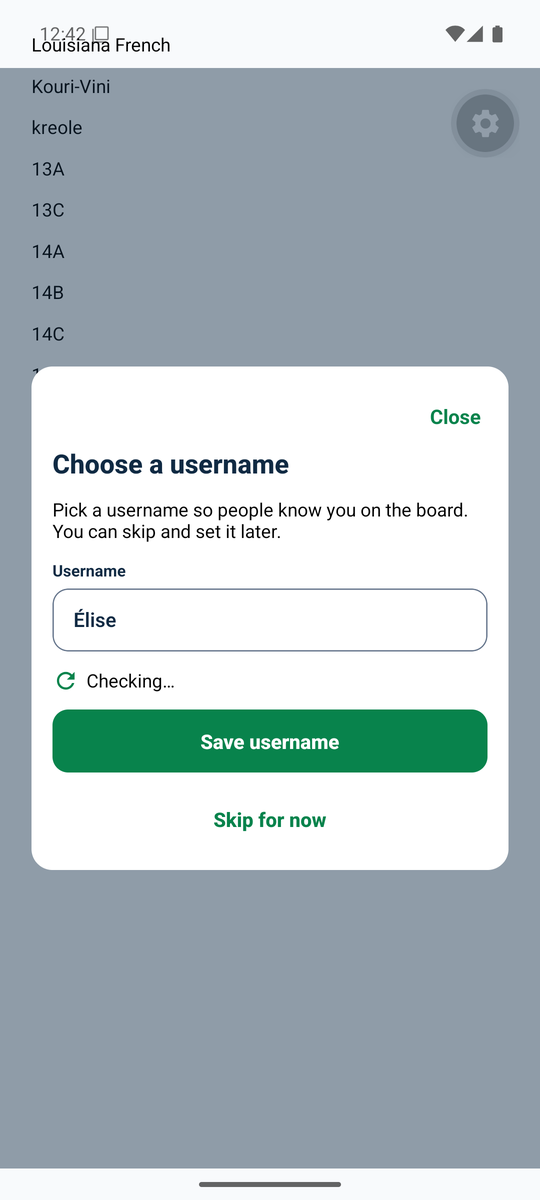
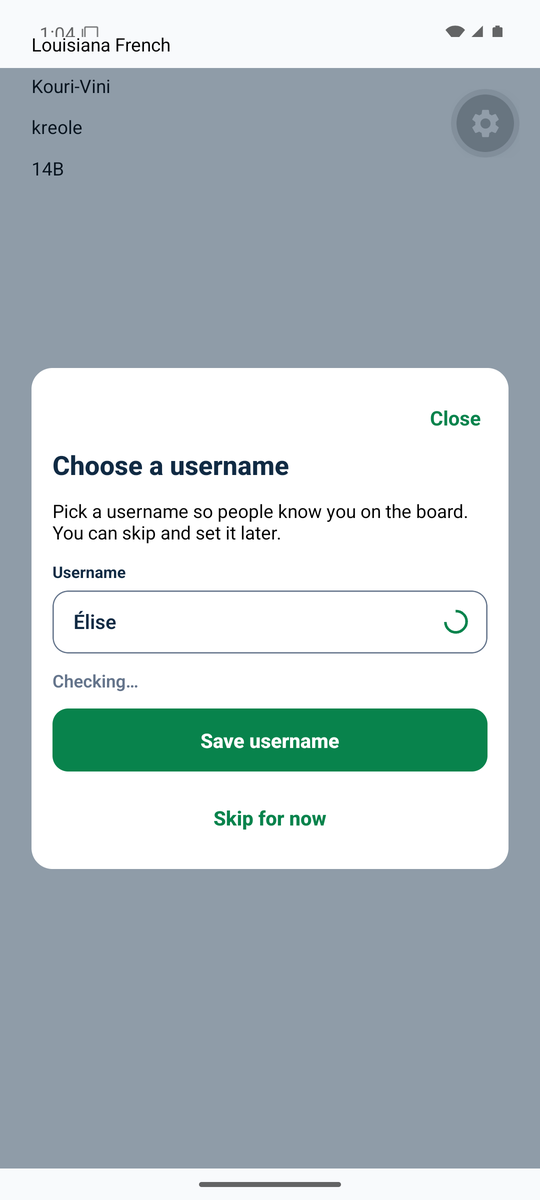
fix(account): put the checking ring inside the username field (#495)
* test(account): require the checking ring inside the username field

The spinner still sits on the Checking line, under the field.

* fix(account): put the checking ring inside the username field

The ring is an 18px accent stroke at the trailing edge. Checking… stays plain text under the field, and that line and the available line announce politely.

* docs(account): retake the checking-ring shots

---------

diff --git a/src/components/account/accountViews.tsx b/src/components/account/accountViews.tsx
@@ -1,5 +1,6 @@
 import { Feather, FontAwesome5 } from '@expo/vector-icons';
-import { ActivityIndicator, Pressable, StyleSheet, Text, View } from 'react-native';
+import { useEffect, useRef } from 'react';
+import { ActivityIndicator, Animated, Easing, Pressable, StyleSheet, Text, View } from 'react-native';
 
 import { usernameSaveBlocked, type AccountEvent, type AccountView } from '../../account/accountMachine';
 import { usernameFormatIssue } from '../../account/usernameFormat';
@@ -177,6 +178,19 @@ export function ForgotView({ view, dispatch, accentColor }: { view: Forgot; disp
   );
 }
 
+function CheckingRing({ color }: { color: string }) {
+  const turn = useRef(new Animated.Value(0)).current;
+  useEffect(() => {
+    const spin = Animated.loop(Animated.timing(turn, {
+      toValue: 1, duration: 900, easing: Easing.linear, useNativeDriver: true
+    }));
+    spin.start();
+    return () => spin.stop();
+  }, [turn]);
+  const rotate = turn.interpolate({ inputRange: [0, 1], outputRange: ['0deg', '360deg'] });
+  return <Animated.View testID="account-username-checking" style={[styles.ring, { borderColor: color, transform: [{ rotate }] }]} />;
+}
+
 function GoogleError() {
   return <View style={styles.error}>
     <Feather accessible={false} color="#B91C1C" name="alert-circle" size={16} />
@@ -201,17 +215,17 @@ export function UsernameView({ view, dispatch, accentColor }: { view: Username; 
         autoCapitalize="none"
         error={message.kind === 'error' ? message.text : undefined}
         testID="account-username"
+        trailing={message.kind === 'checking' ? <CheckingRing color={accentColor} /> : undefined}
       />
       {message.kind === 'checking' ? (
-        <View style={styles.status}>
-          <ActivityIndicator color={accentColor} testID="account-username-checking" />
-          <Text>{message.text}</Text>
+        <View>
+          <Text accessibilityLiveRegion="polite" style={styles.checking}>{message.text}</Text>
         </View>
       ) : null}
       {message.kind === 'available' ? (
         <View style={styles.status}>
           <Feather accessible={false} color={accentColor} name="check" size={16} />
-          <Text style={[styles.available, { color: accentColor }]} testID="account-username-available">{message.text}</Text>
+          <Text accessibilityLiveRegion="polite" style={[styles.available, { color: accentColor }]} testID="account-username-available">{message.text}</Text>
         </View>
       ) : null}
       {message.kind === 'helper' ? <Text>{message.text}</Text> : null}
@@ -259,6 +273,10 @@ const styles = StyleSheet.create({
   locked: { opacity: 0.55 },
   error: { alignItems: 'center', flexDirection: 'row', gap: 6 },
   status: { alignItems: 'center', flexDirection: 'row', gap: 6 },
+  checking: { color: '#64748B', fontSize: 13, fontWeight: '600' },
+  ring: {
+    borderRadius: 9, borderTopColor: 'transparent', borderWidth: 2, height: 18, width: 18
+  },
   available: { flexShrink: 1, fontSize: 13, fontWeight: '700' },
   errorText: { color: '#B91C1C', flexShrink: 1, fontSize: 13, fontWeight: '700' },
   title: { color: '#102A43', fontSize: 20, fontWeight: '800' }

diff --git a/src/components/account/formControls.tsx b/src/components/account/formControls.tsx
@@ -1,4 +1,4 @@
-import { useState } from 'react';
+import { useState, type ReactNode } from 'react';
 import { Feather } from '@expo/vector-icons';
 import {
   ActivityIndicator,
@@ -31,6 +31,7 @@ type FieldProps = {
   autoCapitalize?: TextInputProps['autoCapitalize'];
   keyboardType?: TextInputProps['keyboardType'];
   editable?: boolean;
+  trailing?: ReactNode;
 };
 
 type ButtonProps = {
@@ -89,6 +90,8 @@ const labelStyle: TextStyle = { color: INK, fontSize: 12, fontWeight: '700', mar
 const errorText: TextStyle = { color: ERROR_TEXT, flexShrink: 1, fontSize: 13, fontWeight: '700' };
 const errorRow: ViewStyle = { alignItems: 'flex-start', flexDirection: 'row', gap: 6, marginTop: 6 };
 const title: TextStyle = { flexShrink: 1, fontSize: 15, fontWeight: '800' };
+const fieldWrap: ViewStyle = { justifyContent: 'center' };
+const trailingSlot: ViewStyle = { bottom: 0, justifyContent: 'center', position: 'absolute', top: 0 };
 const frame: ViewStyle = {
   alignItems: 'center',
   borderRadius: 12,
@@ -111,27 +114,33 @@ export function Field({
   secureTextEntry,
   autoCapitalize,
   keyboardType,
-  editable
+  editable,
+  trailing
 }: FieldProps) {
   const { focused, onFocus, onBlur } = useFocused();
+  const inputStyle = fieldStyle(focused, Boolean(error), accentColor);
+  const pad = typeof inputStyle.paddingHorizontal === 'number' ? inputStyle.paddingHorizontal : INSET;
   return (
     <View>
       <Text accessible={false} style={labelStyle}>{label}</Text>
-      <TextInput
-        accessibilityHint={error}
-        accessibilityLabel={label}
-        autoCapitalize={autoCapitalize}
-        editable={editable}
-        keyboardType={keyboardType}
-        onBlur={onBlur}
-        onChangeText={onChangeText}
-        onFocus={onFocus}
-        placeholder={placeholder}
-        secureTextEntry={secureTextEntry}
-        style={fieldStyle(focused, Boolean(error), accentColor)}
-        testID={testID}
-        value={value}
-      />
+      <View style={fieldWrap} testID={testID ? `${testID}-field` : undefined}>
+        <TextInput
+          accessibilityHint={error}
+          accessibilityLabel={label}
+          autoCapitalize={autoCapitalize}
+          editable={editable}
+          keyboardType={keyboardType}
+          onBlur={onBlur}
+          onChangeText={onChangeText}
+          onFocus={onFocus}
+          placeholder={placeholder}
+          secureTextEntry={secureTextEntry}
+          style={trailing ? [inputStyle, { paddingRight: pad + 26 }] : inputStyle}
+          testID={testID}
+          value={value}
+        />
+        {trailing ? <View pointerEvents="none" style={[trailingSlot, { right: pad }]}>{trailing}</View> : null}
+      </View>
       {error ? (
         <View style={errorRow}>
           <Feather

diff --git a/src/components/account/__tests__/AccountModal.test.tsx b/src/components/account/__tests__/AccountModal.test.tsx
@@ -1,6 +1,6 @@
 import { describe, expect, it, jest } from '@jest/globals';
 import { act, useState } from 'react';
-import { fireEvent, render, screen, waitFor } from '@testing-library/react-native';
+import { fireEvent, render, screen, waitFor, within } from '@testing-library/react-native';
 import { StyleSheet } from 'react-native';
 
 import type { AccountConnector } from '../../../account/accountConnector';
@@ -265,6 +265,42 @@ describe('username step view', () => {
     expect(screen.getByTestId('account-username-checking')).toBeOnTheScreen();
     expect(screen.queryByText(HELPER)).toBeNull();
     expect(screen.getByRole('button', { name: 'Save username' }).props.accessibilityState.disabled).toBe(false);
+  });
+
+  it('draws the checking ring inside the field and leaves the helper as plain text', () => {
+    openUsername(username({
+      draft: 'Ada',
+      availability: { status: 'checking', value: 'Ada' }
+    }), jest.fn(), accentFor('cajun'));
+    const field = screen.getByTestId('account-username-field');
+    const ring = within(field).getByTestId('account-username-checking');
+    expect(StyleSheet.flatten(ring.props.style)).toMatchObject({
+      width: 18,
+      height: 18,
+      borderWidth: 2,
+      borderColor: '#2771CB',
+      borderTopColor: 'transparent'
+    });
+    const input = within(field).getByLabelText('Username');
+    expect(StyleSheet.flatten(input.props.style)).toMatchObject({ minHeight: 48, borderWidth: 1 });
+    const line = screen.getByText('Checking…');
+    if (!line.parent) throw new Error('Checking line has no row');
+    expect(within(line.parent).queryByTestId('account-username-checking')).toBeNull();
+    expect(line.props.accessibilityLiveRegion).toBe('polite');
+    expect(StyleSheet.flatten(line.props.style)).toMatchObject({
+      fontSize: 13,
+      fontWeight: '600',
+      color: '#64748B'
+    });
+    expect(screen.getByRole('button', { name: 'Save username' }).props.accessibilityState.disabled).toBe(false);
+
+    screen.unmount();
+    openUsername(username({
+      draft: 'Ada',
+      availability: { status: 'settled', value: 'Ada', reply: 'available' }
+    }));
+    expect(screen.queryByTestId('account-username-checking')).toBeNull();
+    expect(screen.getByText('Ada is available.').props.accessibilityLiveRegion).toBe('polite');
   });
 
   it('shows that the typed name is available', () => {

diff --git a/docs/evidence/BIO-65/c4c-14b-README.md b/docs/evidence/BIO-65/c4c-14b-README.md
@@ -1,0 +1,21 @@
+# BIO-65 C4c follow-up — checking ring inside the field
+
+The username step is not mounted on Home. `SHOW_ACCOUNT_MENU_ENTRY` stays false. The two 14B shots came from an uncommitted harness on `emulator-5580` (`lf-api35`, Expo Go). The harness is not in this commit. `emulator-5554` was left alone.
+
+## Click path
+
+1. The harness lists **Louisiana French**, **Kouri-Vini**, and **14B**. It opens 14B at once. The line under the buttons reads `cajun`.
+2. The username field shows **Élise** with an 18px blue ring at the trailing edge. The line under the field is plain **Checking…**, with no spinner. **Save username** stays blue and enabled. The field keeps its normal border.
+3. Tap **Close**. Tap **Kouri-Vini**. The line reads `kreole`. Tap **14B**. The ring is green. The helper and the enabled Save button are the same.
+
+## Regression
+
+Same emulator, after the harness was removed and the app was opened fresh. No clock change. No recording. iOS was not driven.
+
+1. Tap **French, Louisiana French**. Home shows Day 1 and **Start your new lesson**.
+2. Start the lesson. Continue past **Bonjour!**. On the match for Hello!, tap **Bonjour!** and **Check** (Correct, then Next Question). Continue past **Comment ça va?**. On the match for How’s it going?, tap **Skip**, then **Continue**. Back to Home.
+3. Tap **Review**. Daily Review says “No review cards are due right now.” Back to Home.
+4. Tap **Mistakes, 1 pending**. Mistake Review shows that match, 1 / 1. Back to Home.
+5. Tap **Hub**. Advanced French Hub shows Phrase 1/212, **Bonjour!**, Play Audio, and Record. Tap **Home**. Home is back, still Day 1, with the same pending mistake.
+
+No crash, blank screen, or stuck control. The account row is still absent.
